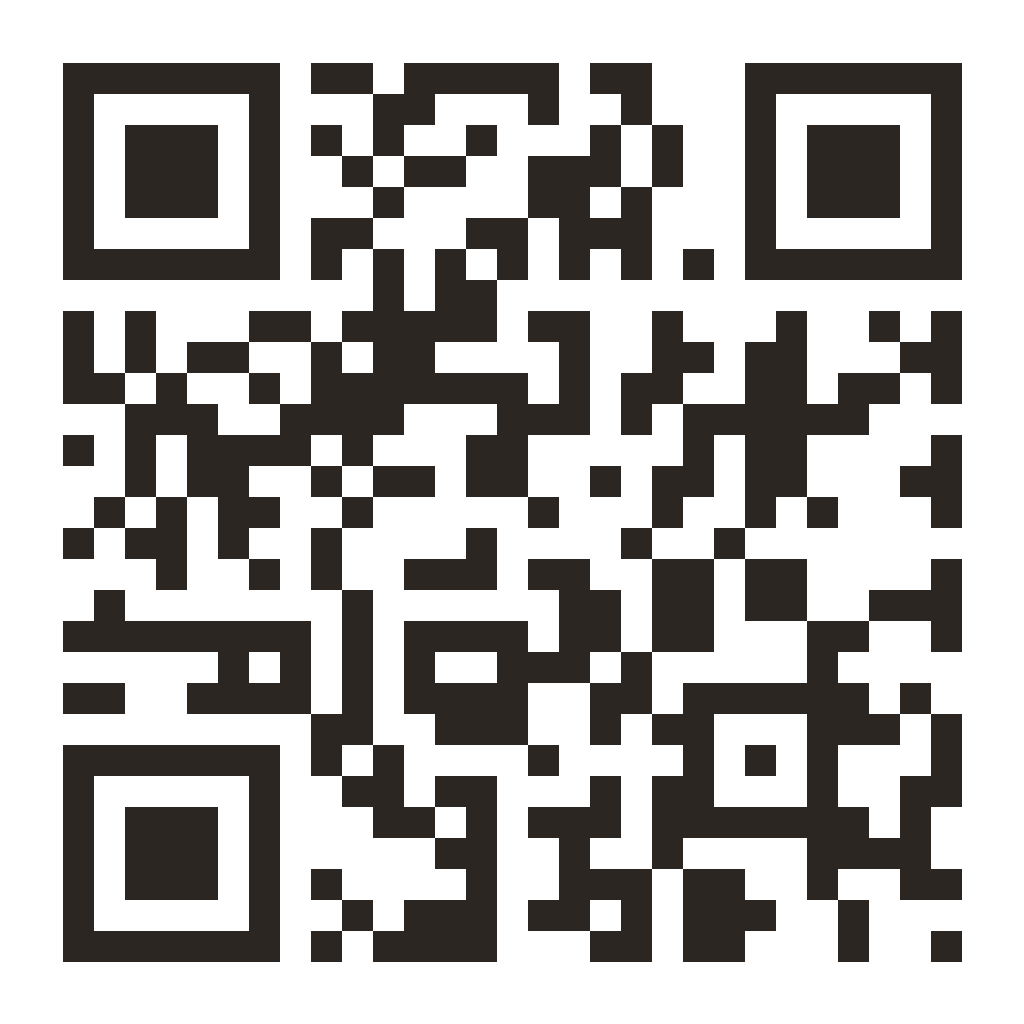
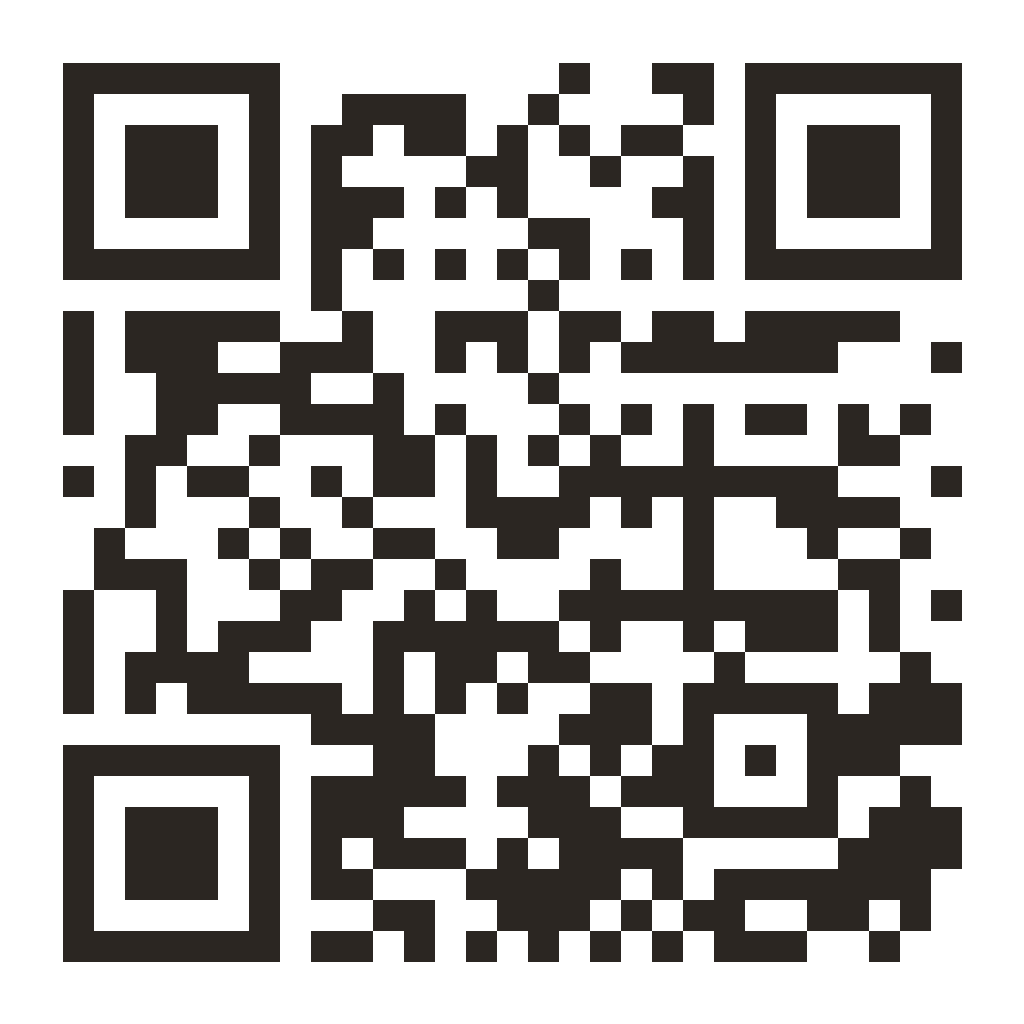
generate and populate the real url on the QR code

Changed region(s): [[0.0625, 0.0625, 0.9375, 0.9375]]

diff --git a/README.md b/README.md
@@ -79,7 +79,7 @@ deployed URL from step 2, regenerate them:
 
 ```bash
 npm install                # first time only — installs the qrcode package
-node generate-qr.js "https://your-live-url"
+node generate-qr.js "https://liangelbeautystudio.netlify.app/"
 ```
 
 This overwrites **`qr-code.png`** (print/social) and **`qr-code.svg`** (vector).
